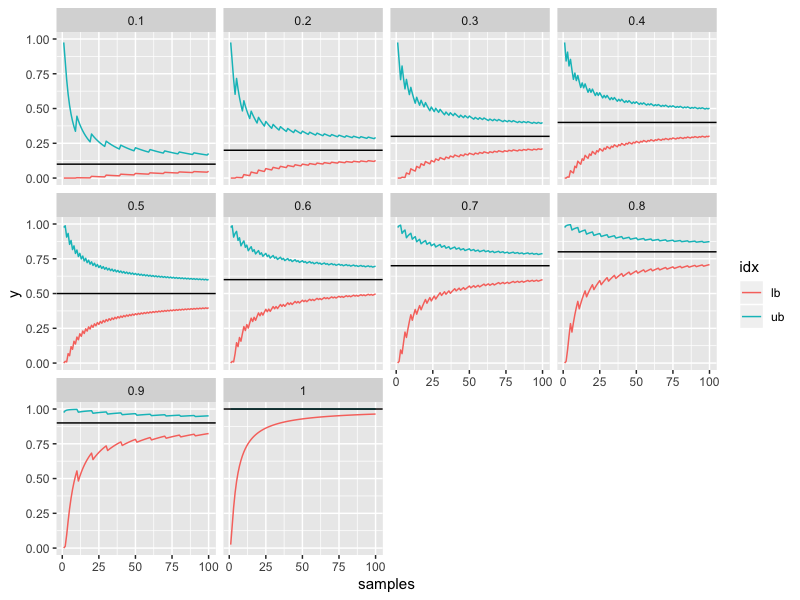
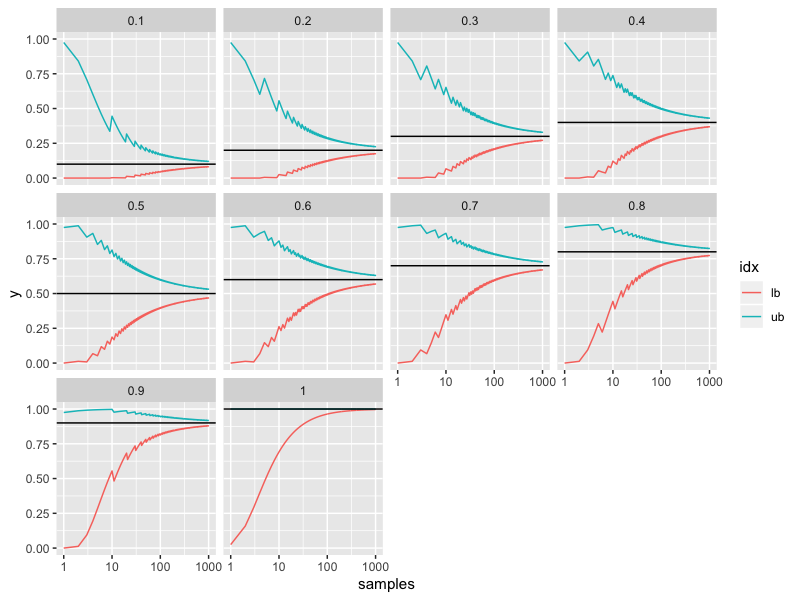
using a log scale

diff --git a/chapter-4/README.md b/chapter-4/README.md
@@ -20,7 +20,9 @@ Caret sample: ![caret](resample_caret_plot.png)
 
 Data size is very small so we have to be careful in evaluating performance. A single test set would be problematic. This indicates something like repeated cross validation to investigate performance. Perhaps even leave-one-out cross validation if computationally tractable. 
 
-Another investigation is how confidence intervals around the crude sample probability of success varies. For example, we have 100 samples and get a crude estimate of 80% success. This could actually mean a large number of probabilities on a 95% confidence interval basis. Any of the plots below where samples = 100 and y = 0.8 are within the lower and upper bounds could be a candidate for the actual probability!
+Another investigation is how confidence intervals around the crude sample probability of success varies. For example, we have 100 samples and get a crude estimate of 80% success. This could actually mean a large number of probabilities on a 95% confidence interval basis. Any of the plots below where samples = 100 and y = 0.8 are within the lower and upper bounds could be a candidate for the actual probability! 
+
+Also note log scale on x axis.
 
 ![confidence intervals](prob_invest.png)
 
